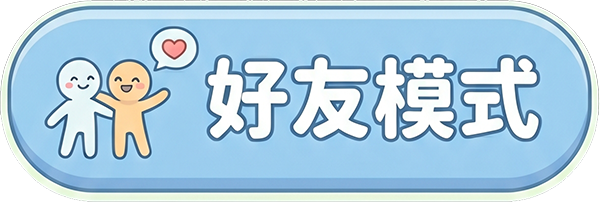
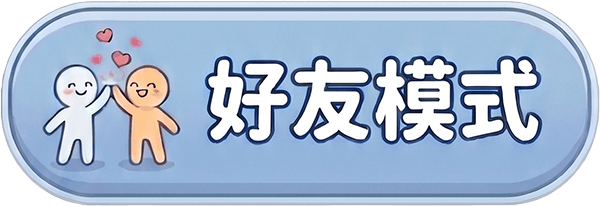
feat(CompLobbyMain): 添加本地游戏按钮并更新组件逻辑

diff --git a/assets/scripts/fgui/lobby/FGUICompLobbyMain.ts b/assets/scripts/fgui/lobby/FGUICompLobbyMain.ts
@@ -11,6 +11,7 @@ export default class FGUICompLobbyMain extends fgui.GComponent {
 
 	public UI_BTN_MATCH_ROOM:fgui.GButton;
 	public UI_BTN_PRIVATE_ROOM:fgui.GButton;
+	public UI_BTN_LOCAL_GAME:fgui.GButton;
 	public UI_COMP_TOP:FGUICompTop;
 	public UI_BTN_MAILS:fgui.GButton;
 	public UI_BTN_RANK:fgui.GButton;
@@ -64,21 +65,23 @@ export default class FGUICompLobbyMain extends fgui.GComponent {
 		this.UI_BTN_MATCH_ROOM.onClick(this.onBtnMatchRoom, this);
 		this.UI_BTN_PRIVATE_ROOM = <fgui.GButton>(this.getChildAt(1));
 		this.UI_BTN_PRIVATE_ROOM.onClick(this.onBtnPrivateRoom, this);
-		this.UI_COMP_TOP = <FGUICompTop>(this.getChildAt(2));
-		this.UI_BTN_MAILS = <fgui.GButton>(this.getChildAt(3));
+		this.UI_BTN_LOCAL_GAME = <fgui.GButton>(this.getChildAt(2));
+		this.UI_BTN_LOCAL_GAME.onClick(this.onBtnLocalGame, this);
+		this.UI_COMP_TOP = <FGUICompTop>(this.getChildAt(3));
+		this.UI_BTN_MAILS = <fgui.GButton>(this.getChildAt(4));
 		this.UI_BTN_MAILS.onClick(this.onBtnMails, this);
-		this.UI_BTN_RANK = <fgui.GButton>(this.getChildAt(4));
+		this.UI_BTN_RANK = <fgui.GButton>(this.getChildAt(5));
 		this.UI_BTN_RANK.onClick(this.onBtnRank, this);
-		this.UI_BTN_SHARE = <fgui.GButton>(this.getChildAt(5));
+		this.UI_BTN_SHARE = <fgui.GButton>(this.getChildAt(6));
 		this.UI_BTN_SHARE.onClick(this.onBtnShare, this);
-		this.UI_BTN_SIGN_IN = <fgui.GButton>(this.getChildAt(6));
+		this.UI_BTN_SIGN_IN = <fgui.GButton>(this.getChildAt(7));
 		this.UI_BTN_SIGN_IN.onClick(this.onBtnSignIn, this);
-		this.UI_BTN_AD = <fgui.GButton>(this.getChildAt(7));
+		this.UI_BTN_AD = <fgui.GButton>(this.getChildAt(8));
 		this.UI_BTN_AD.onClick(this.onBtnAd, this);
-		this.UI_TXT_ENV = <fgui.GTextField>(this.getChildAt(8));
-		this.UI_BTN_BAG = <fgui.GButton>(this.getChildAt(9));
+		this.UI_TXT_ENV = <fgui.GTextField>(this.getChildAt(9));
+		this.UI_BTN_BAG = <fgui.GButton>(this.getChildAt(10));
 		this.UI_BTN_BAG.onClick(this.onBtnBag, this);
-		this.UI_BTN_LOCALGAME = <fgui.GButton>(this.getChildAt(10));
+		this.UI_BTN_LOCALGAME = <fgui.GButton>(this.getChildAt(11));
 		this.UI_BTN_LOCALGAME.onClick(this.onBtnLocalgame, this);
 	}
 	scheduleOnce(callback: () => void, delay: number):void{};
@@ -87,6 +90,7 @@ export default class FGUICompLobbyMain extends fgui.GComponent {
 	schedule(callback: () => void, interval: number):void{};
 	onBtnMatchRoom():void{};
 	onBtnPrivateRoom():void{};
+	onBtnLocalGame():void{};
 	onBtnMails():void{};
 	onBtnRank():void{};
 	onBtnShare():void{};